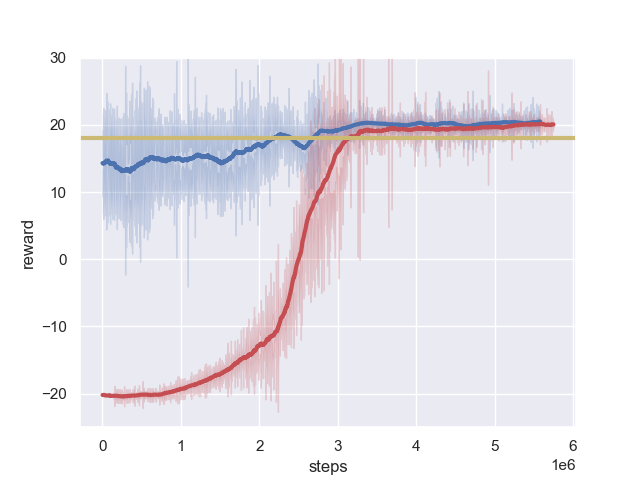
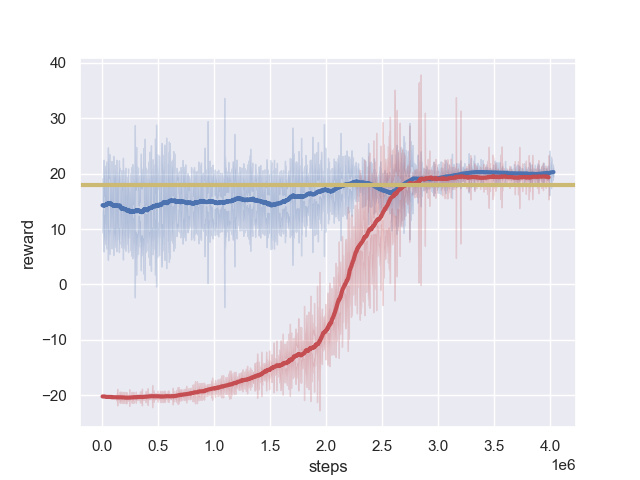
adding seaborn to plots

diff --git a/code/discrete_action/plot.py b/code/discrete_action/plot.py
@@ -9,8 +9,8 @@ sns.set()
 sns.color_palette("bright", 10)
 
 episode = 100
-GAME_NAME = "Breakout"
-LOAD_PATH = "../../"+str(GAME_NAME)+"/Good_264"
+GAME_NAME = "Freeway"
+LOAD_PATH = "../../"+str(GAME_NAME)+"/Medium_15"
 BASE_LOAD_PATH = "../../"+str(GAME_NAME)+"/Normal_DQN"
 
 folders = os.listdir(LOAD_PATH)
@@ -19,7 +19,7 @@ base_folders = os.listdir(BASE_LOAD_PATH)
 print(base_folders)
 base_rewards = []
 base_steps = []
-BASELINE_VALUE  =  264
+BASELINE_VALUE  =  16
 def average_plot(l,margin=100):
     avg_list = []
     for i in range(l.shape[0] - margin):
@@ -94,8 +94,8 @@ base_avg_reward = average_plot(base_avg_reward,episode)
 net_steps = []
 
 i = 0
-while (i < int(6.2e6)):
-            i += int(6.2e6) / avg_reward.shape[0]
+while (i < int(1.75e7)):
+            i += int(1.75e7) / avg_reward.shape[0]
             net_steps.append(i)
             i = i + 1
 
@@ -103,8 +103,11 @@ x = min(avg_reward.shape[0],len(net_steps))
 y = min(base_avg_reward.shape[0],len(base_steps))
 
 a =x
-x = int(x * 0.95)
-plt.ylim(0,600)
+b = y
+#x = int(x * 0.40)
+#y = int(y * 0.80)
+
+#plt.ylim(0,600)
 plt.xlabel('steps')
 plt.ylabel('reward')
 
@@ -122,6 +125,7 @@ plt.show()
 
 
 x = a
+y = b
 uncertainities = np.asarray(uncertainities)
 avg_uncertainity = np.nanmean(np.array(list(zip_longest(*uncertainities)),dtype=float),axis=1)
 plt.figure()
